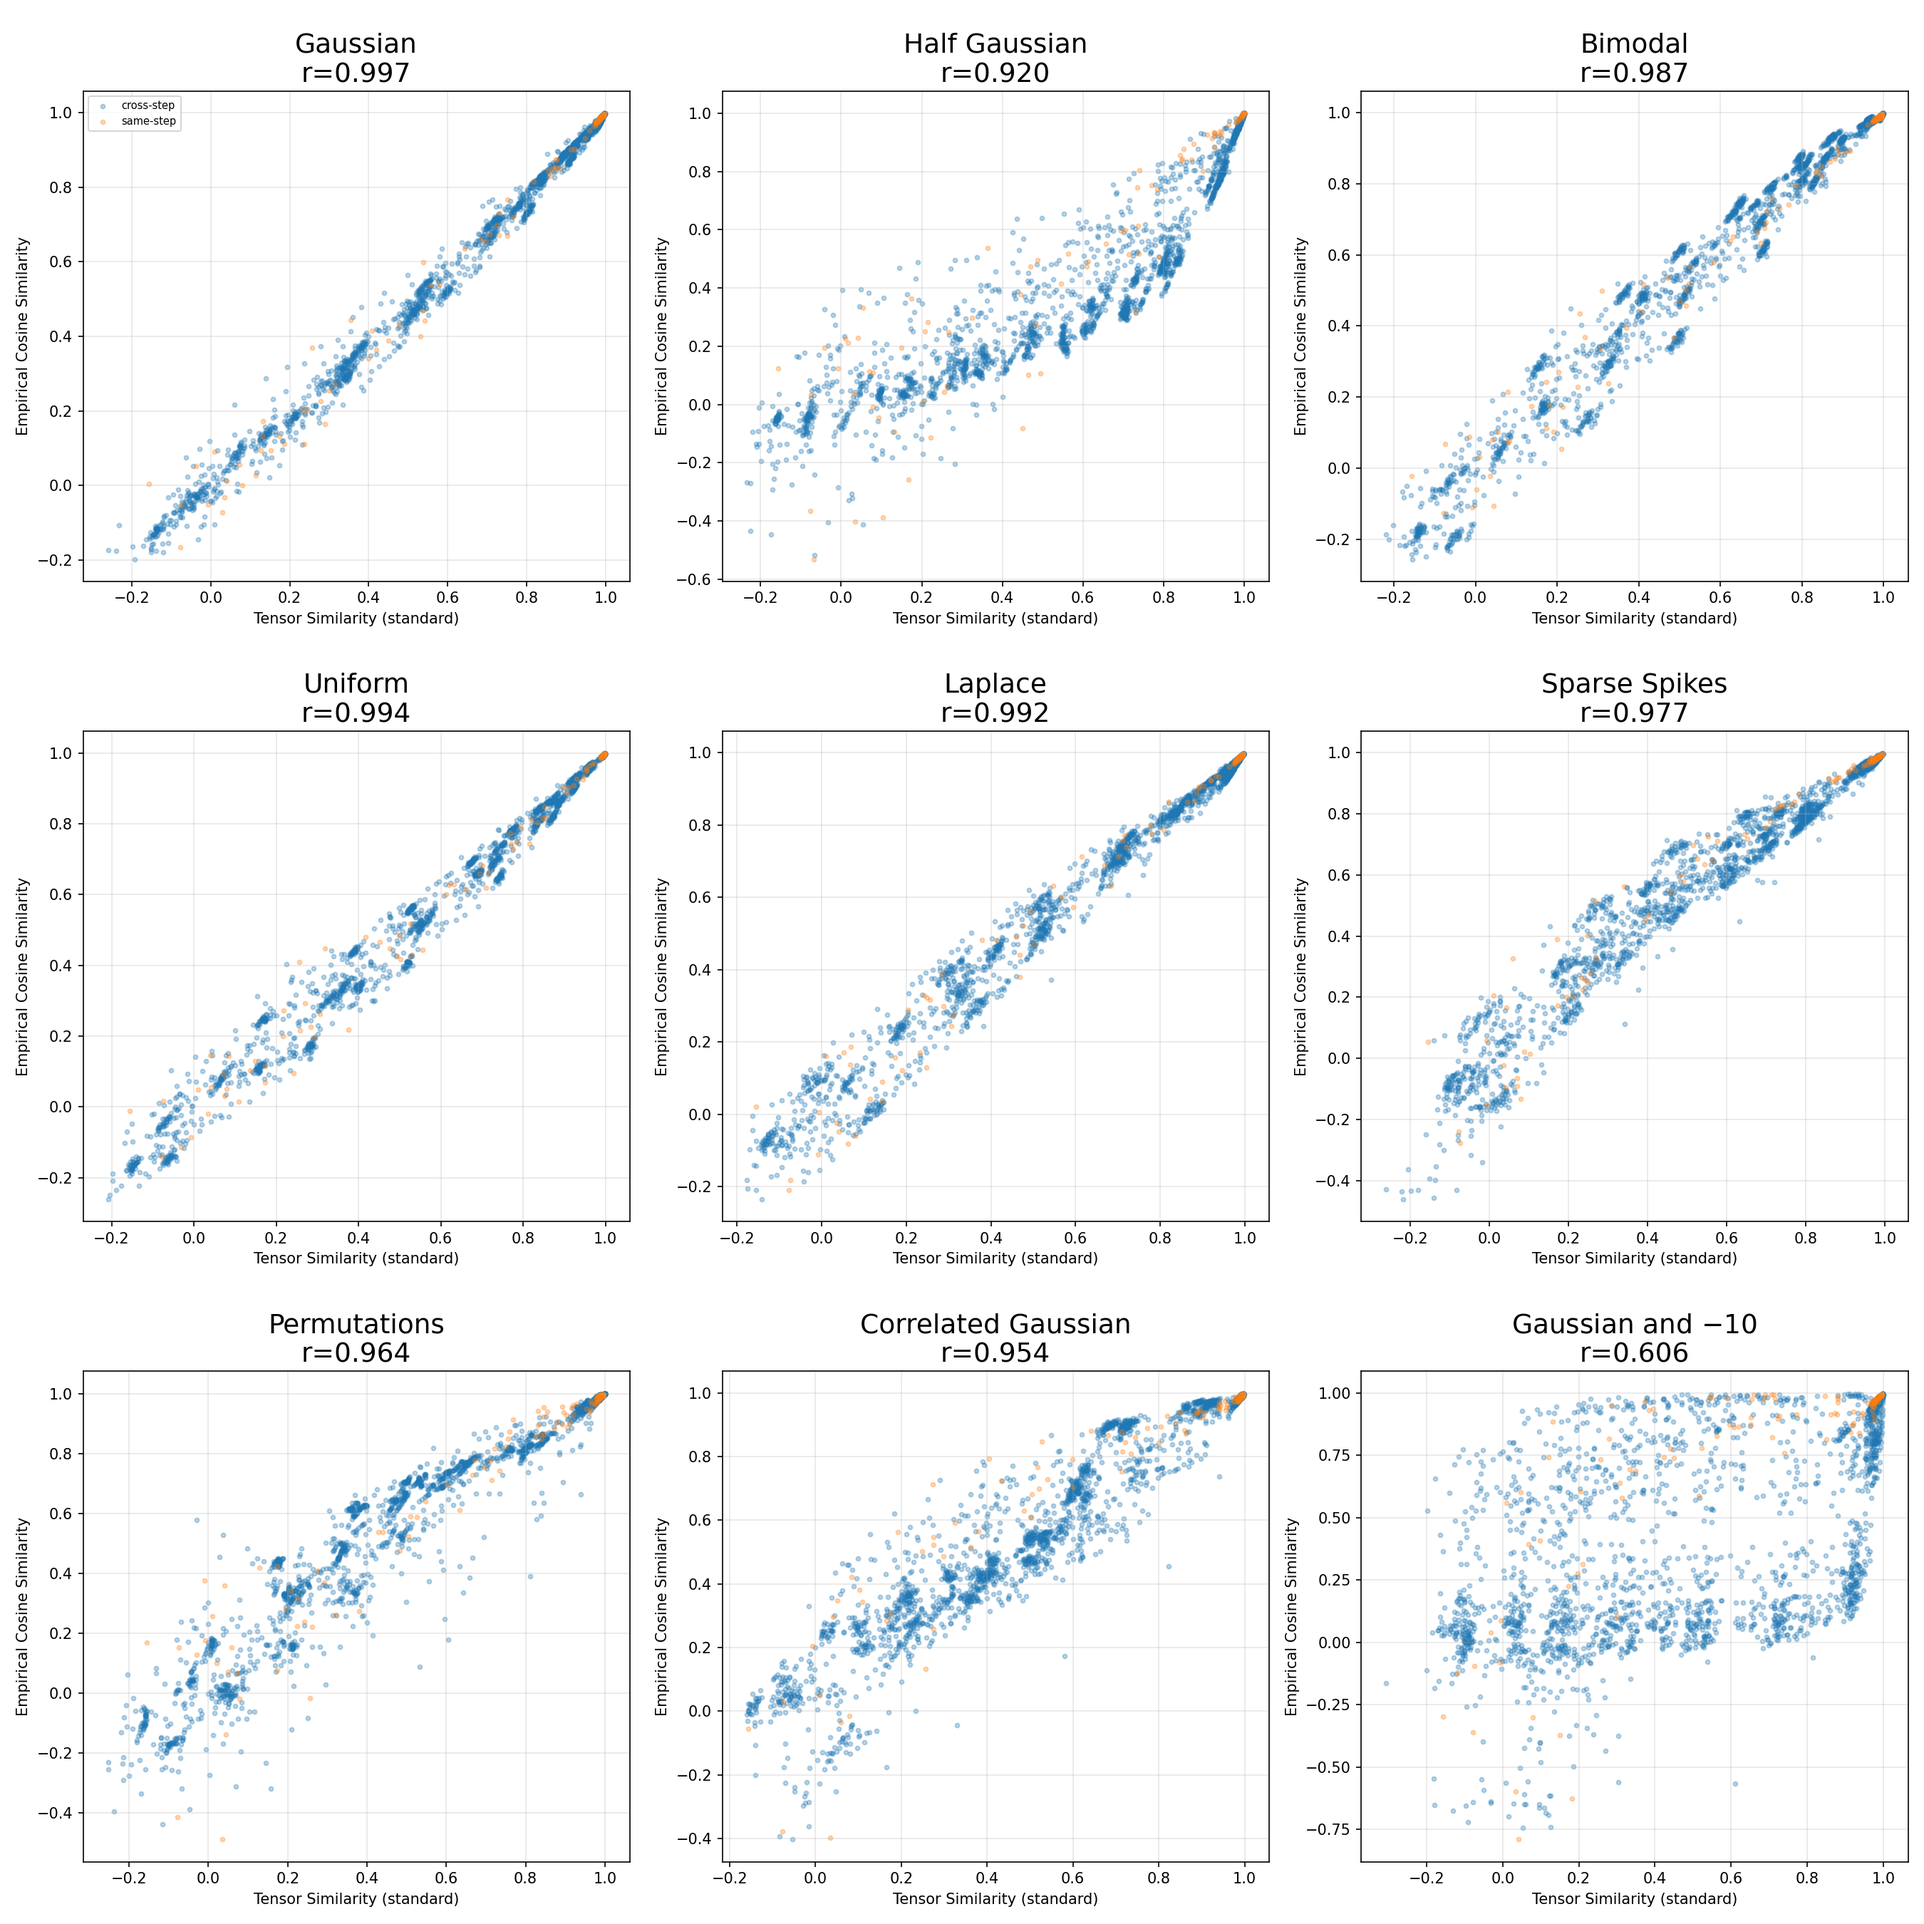
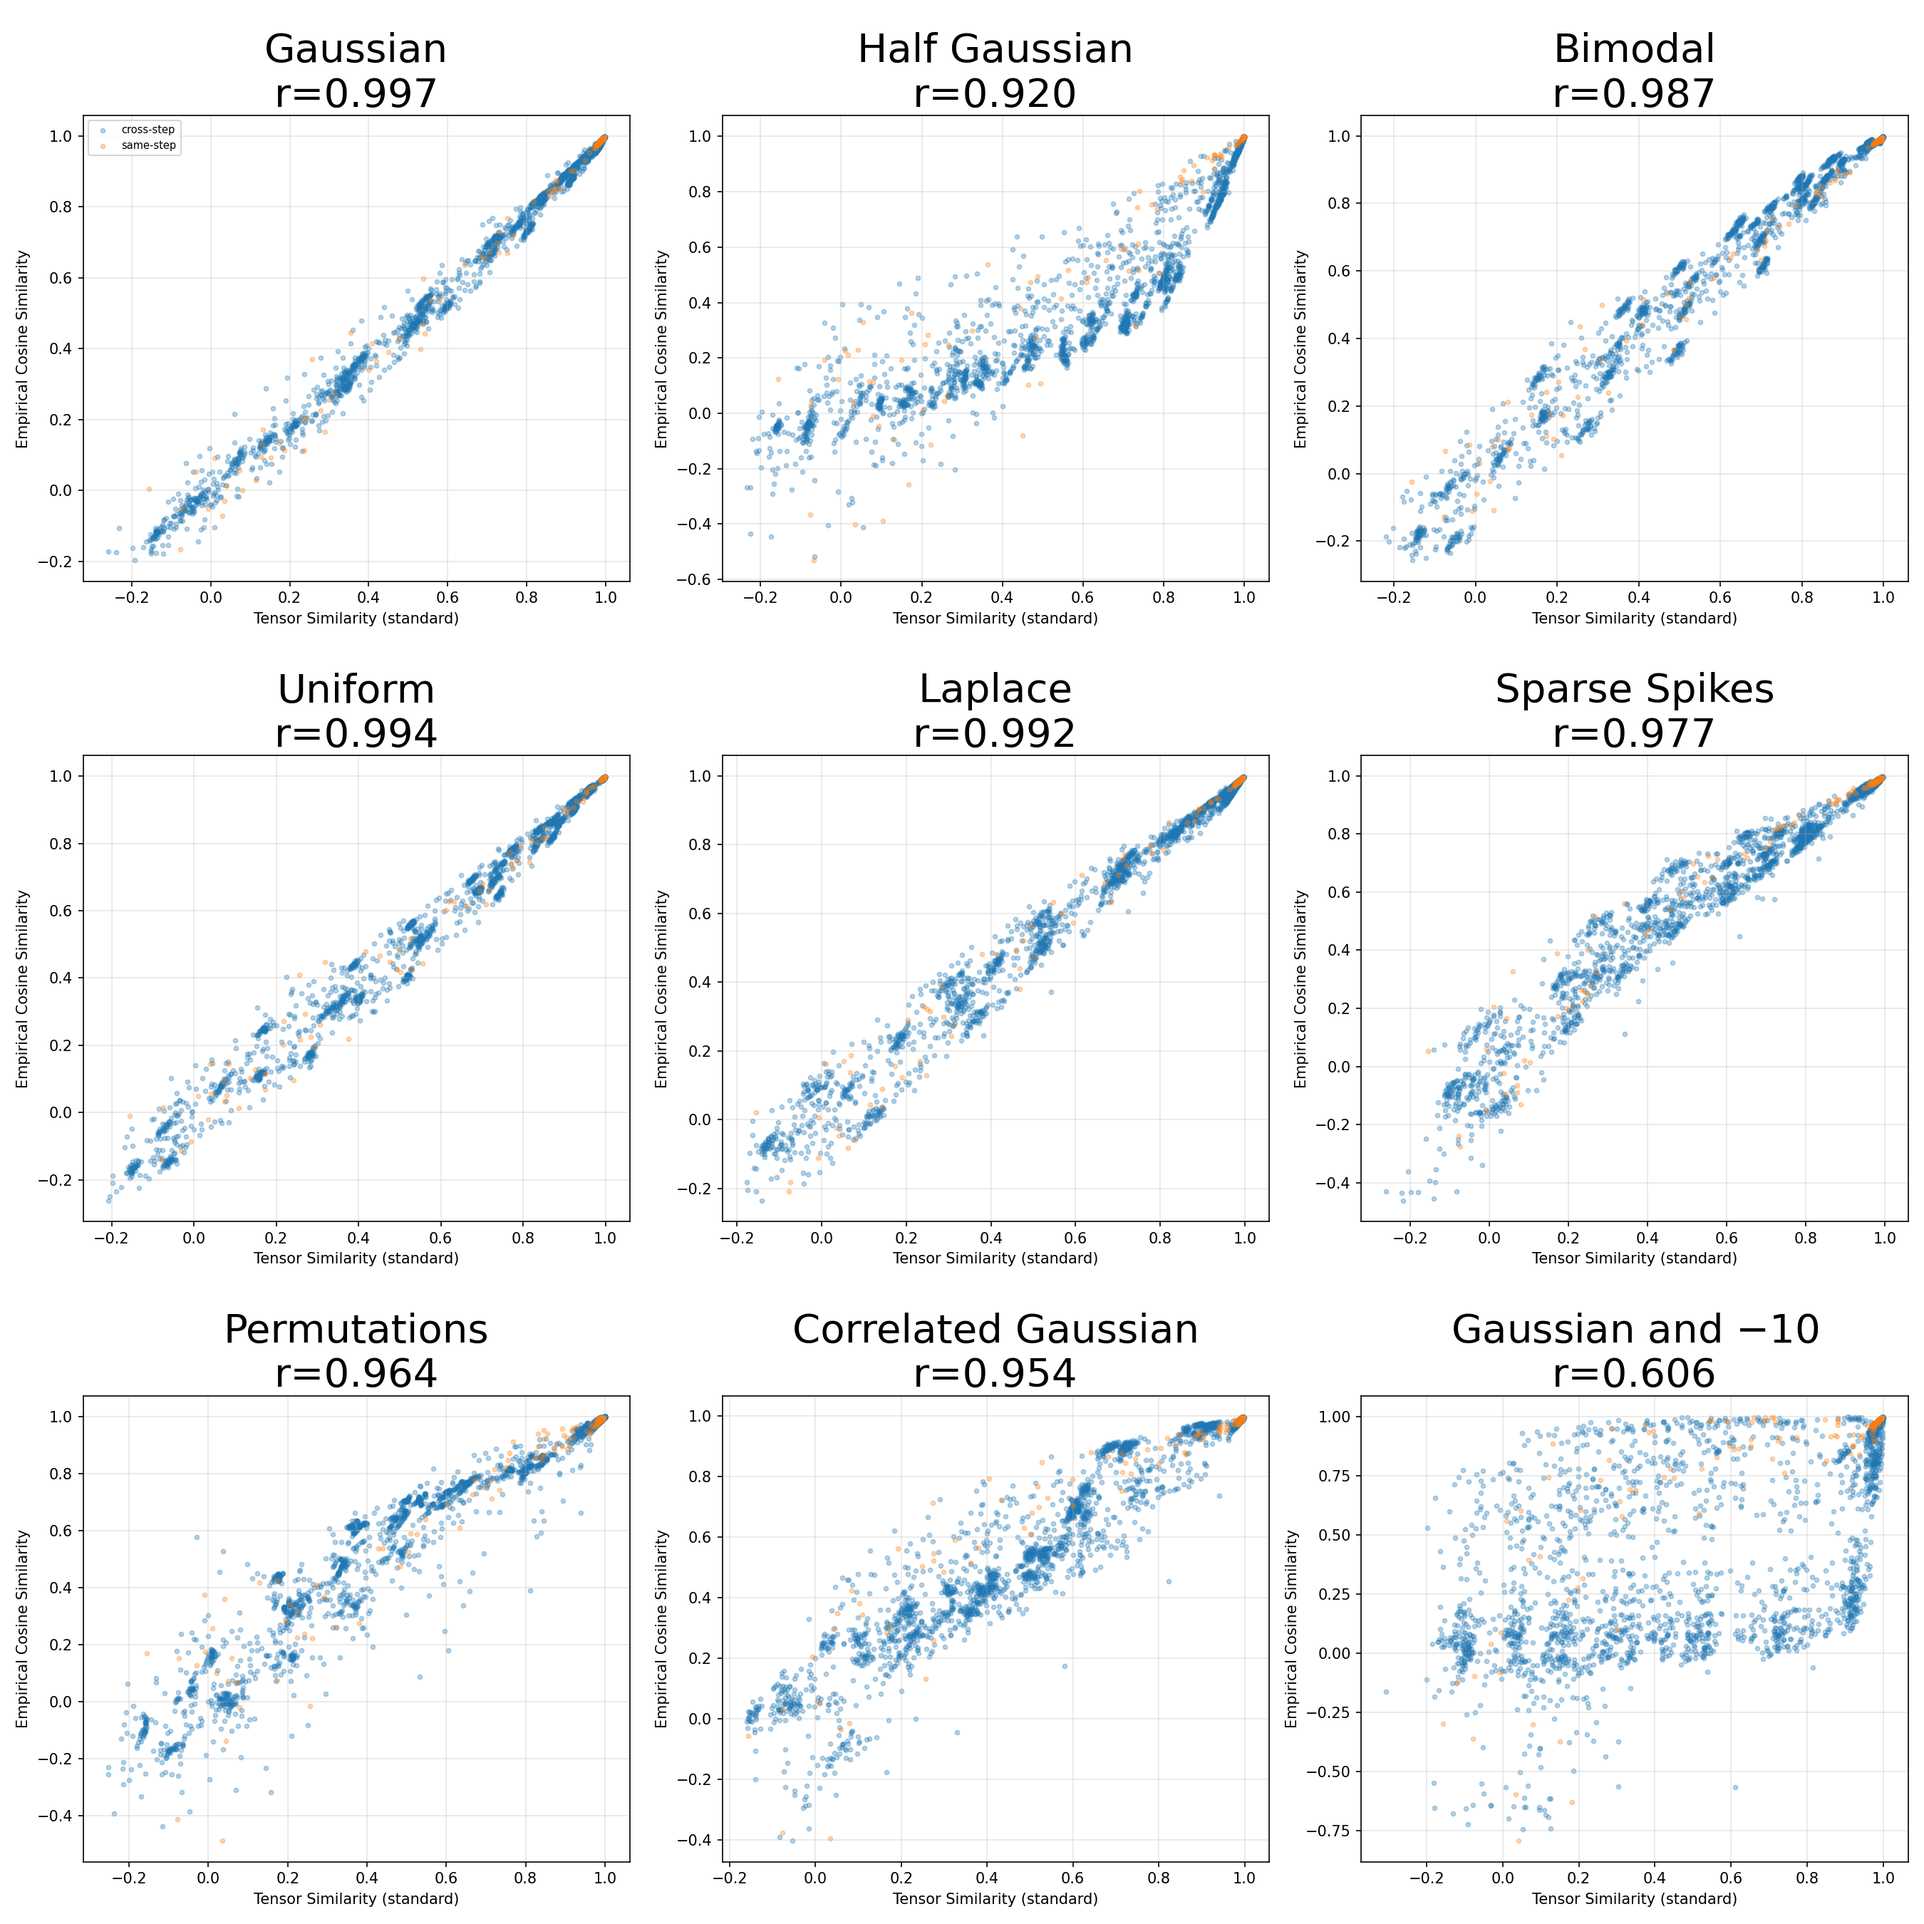
Increase scatter grid title font size to 27pt

diff --git a/workspaces/jacob/tensor_similarity_distribution_robustness/plot.py b/workspaces/jacob/tensor_similarity_distribution_robustness/plot.py
@@ -65,7 +65,7 @@ for idx, dist_name in enumerate(dist_names):
                alpha=0.3, s=8, color='C1', label='same-step')
 
     r_val, _ = stats.pearsonr(ts, fs)
-    ax.set_title(f'{DIST_LABELS[dist_name]}\nr={r_val:.3f}', fontsize=18)
+    ax.set_title(f'{DIST_LABELS[dist_name]}\nr={r_val:.3f}', fontsize=27)
     ax.set_xlabel('Tensor Similarity (standard)')
     ax.set_ylabel('Empirical Cosine Similarity')
     ax.grid(True, alpha=0.3)
